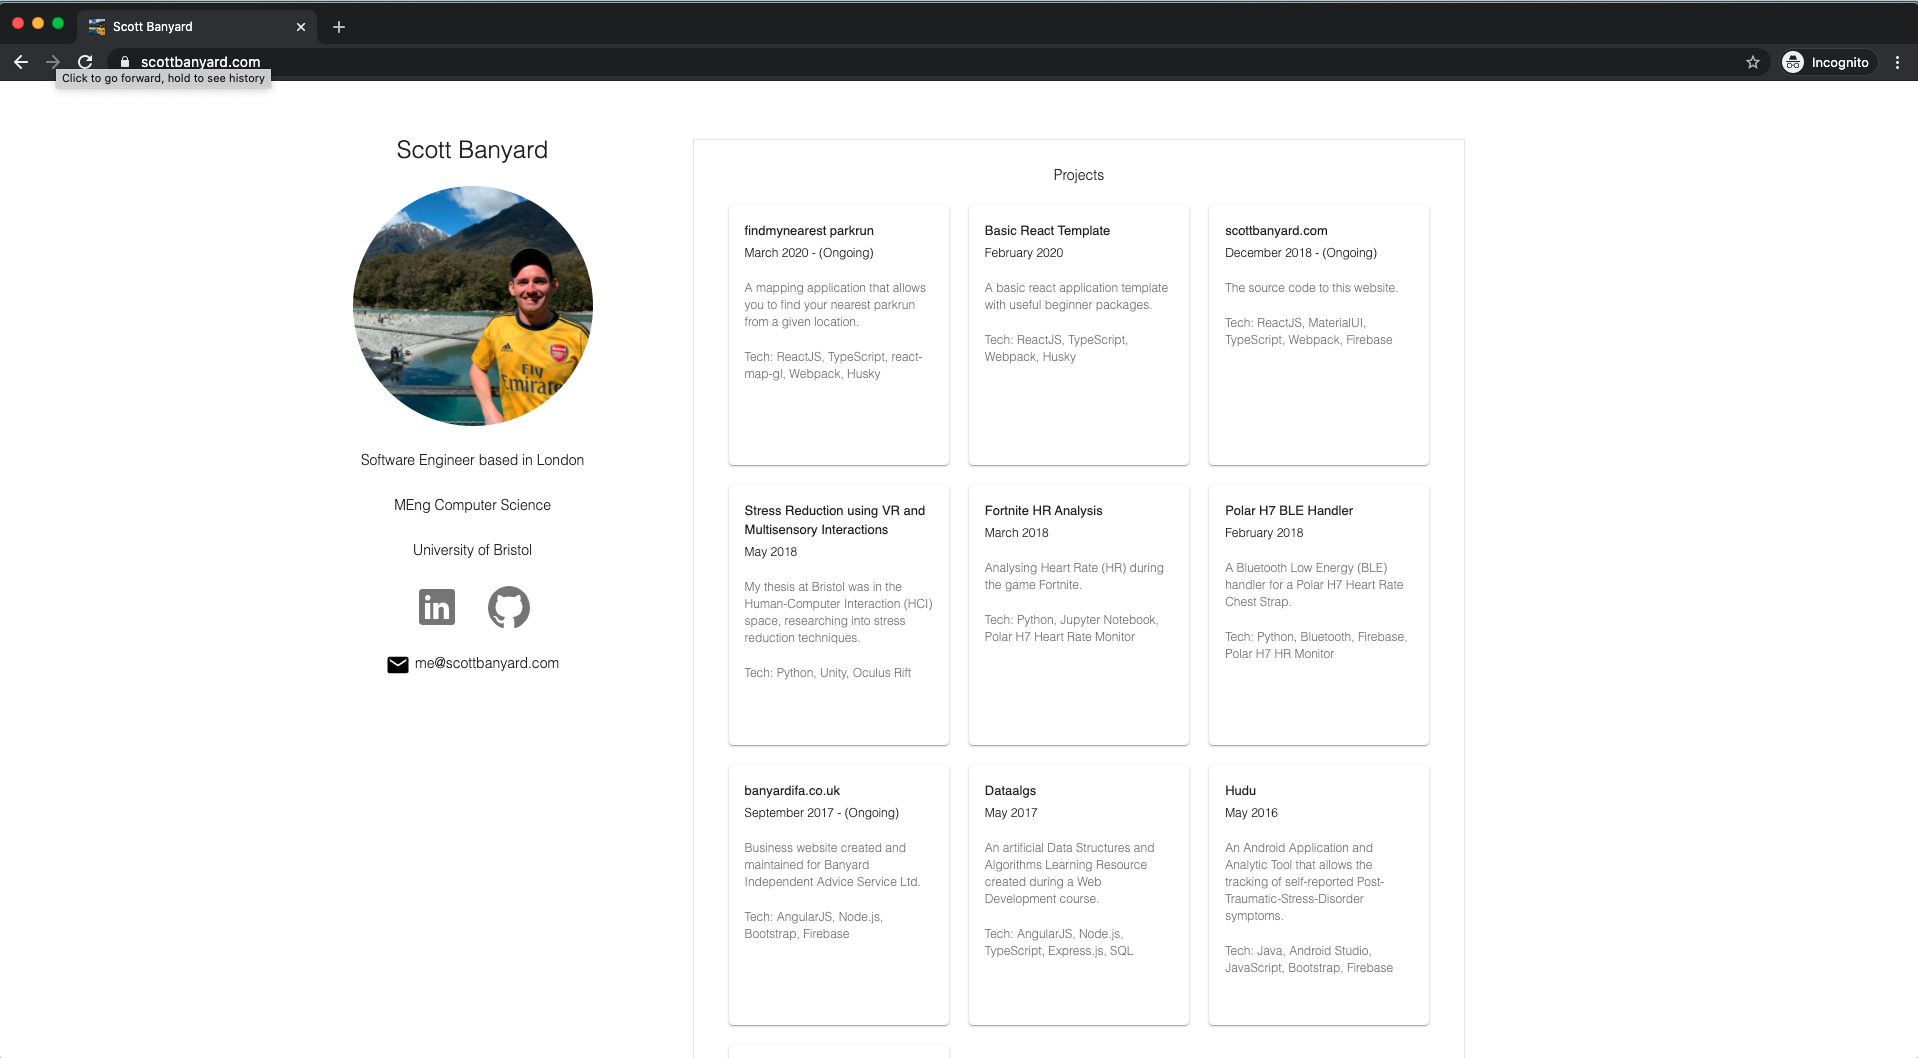
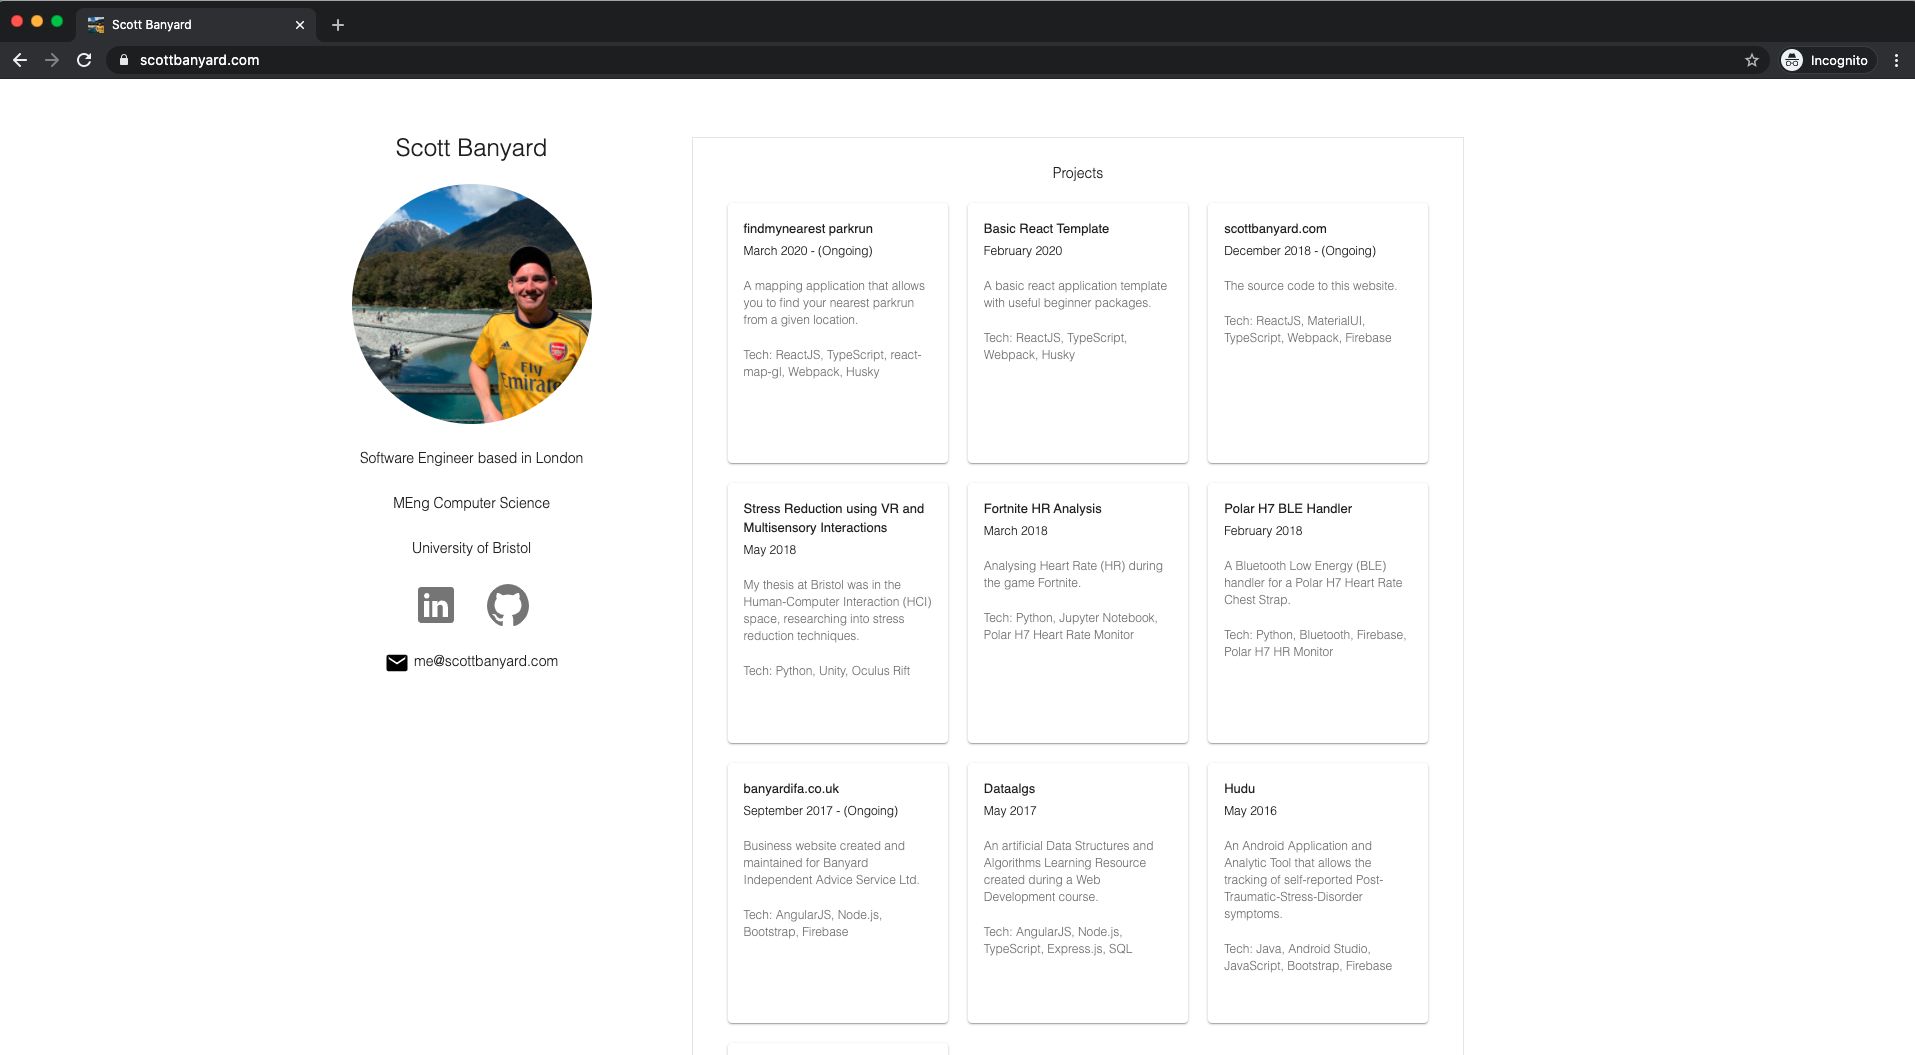
Updated screenshot & width on README.md

diff --git a/README.md b/README.md
@@ -9,7 +9,7 @@
 </p>
 
 <p align="center">
-	<img src="https://github.com/scottbanyard/findmynearest-parkrun/blob/master/resources/demo.png">
+	<img src="https://github.com/scottbanyard/personal-website/blob/master/resources/demo.png" width=800>
 </p>
 
 ## Overview
